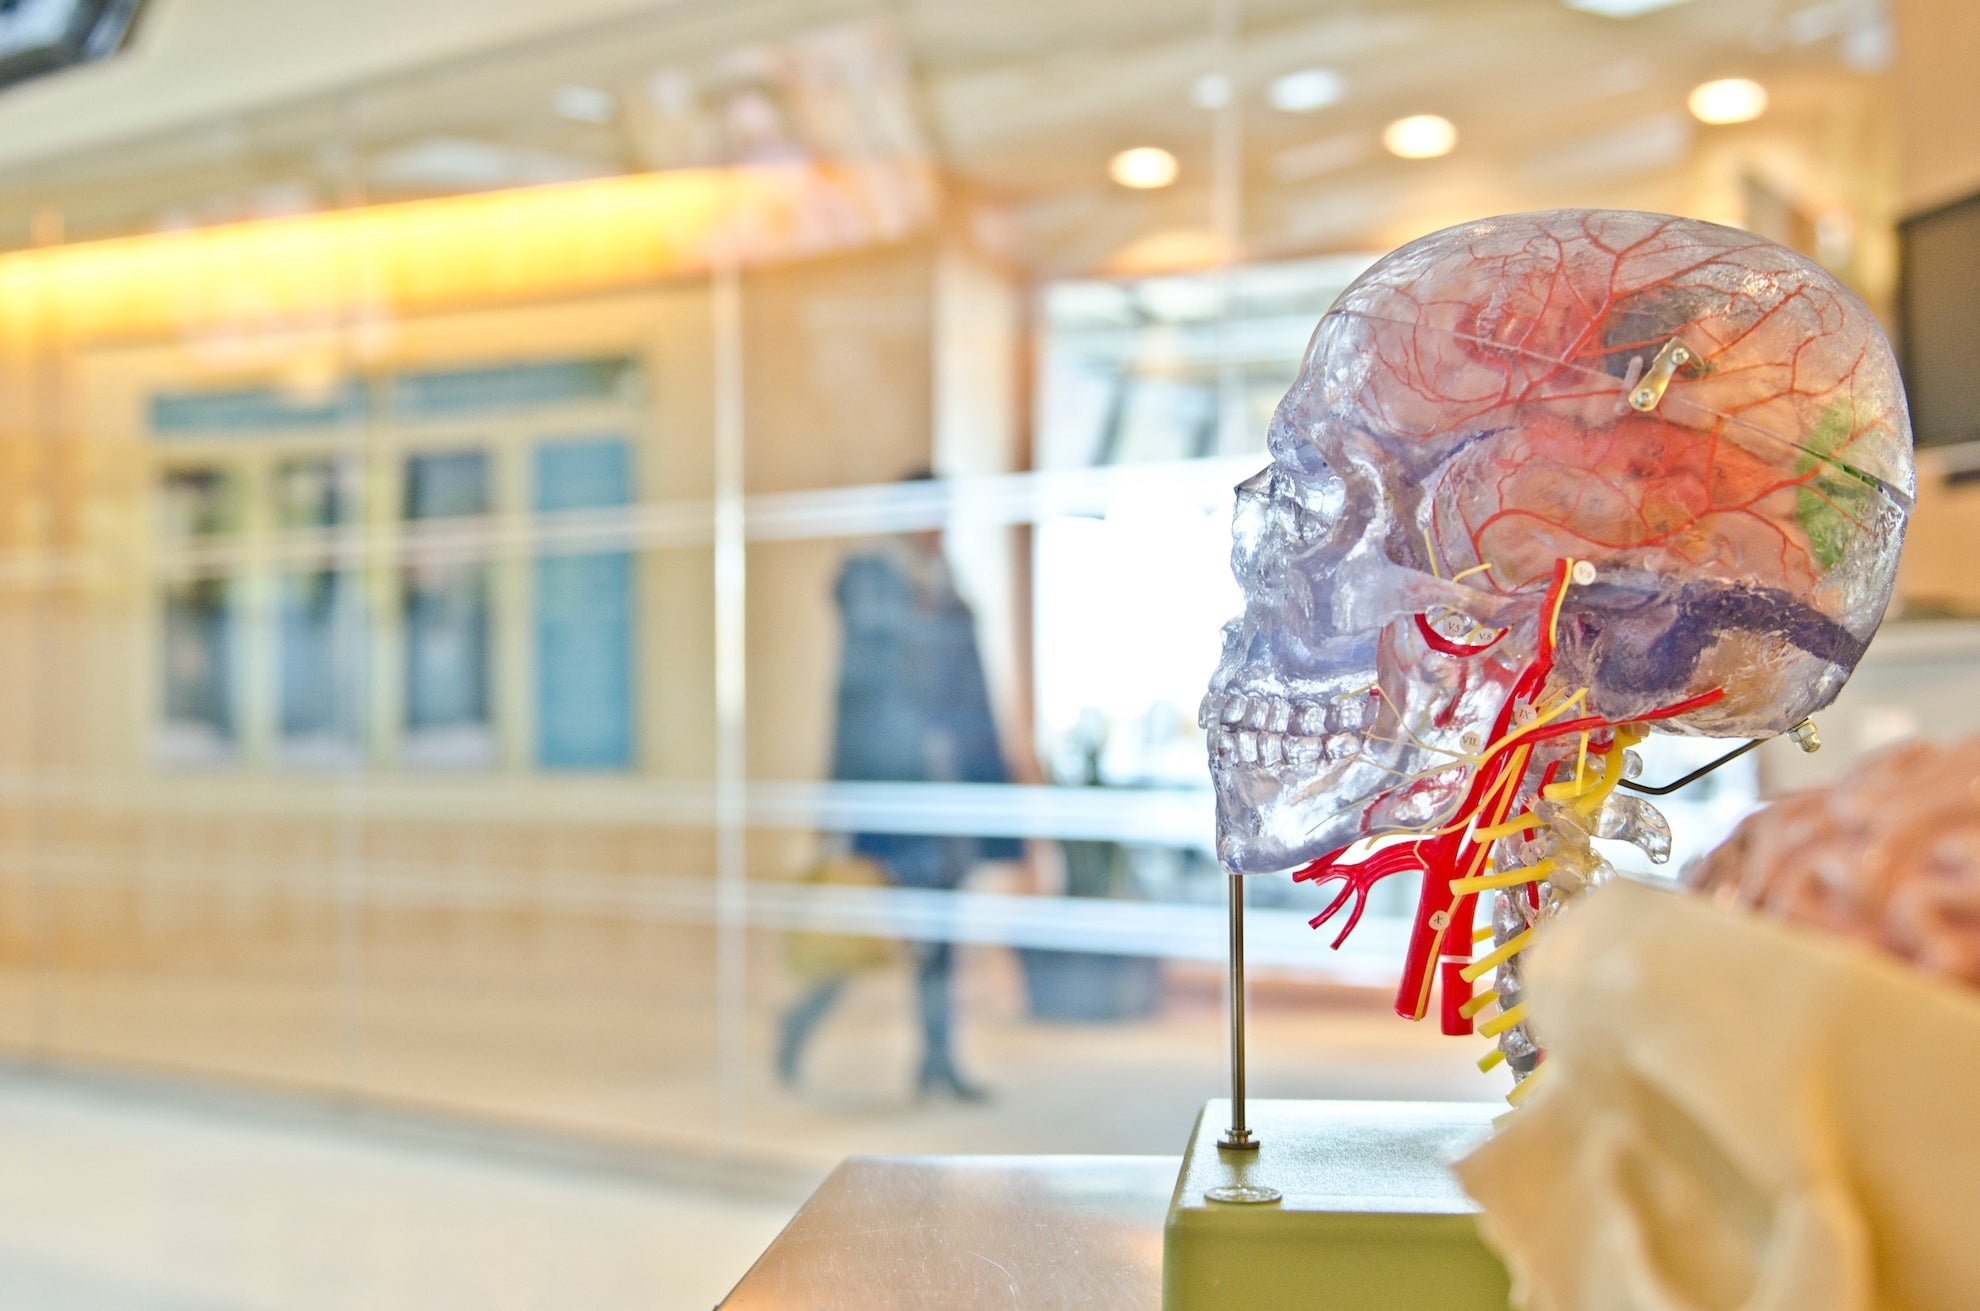
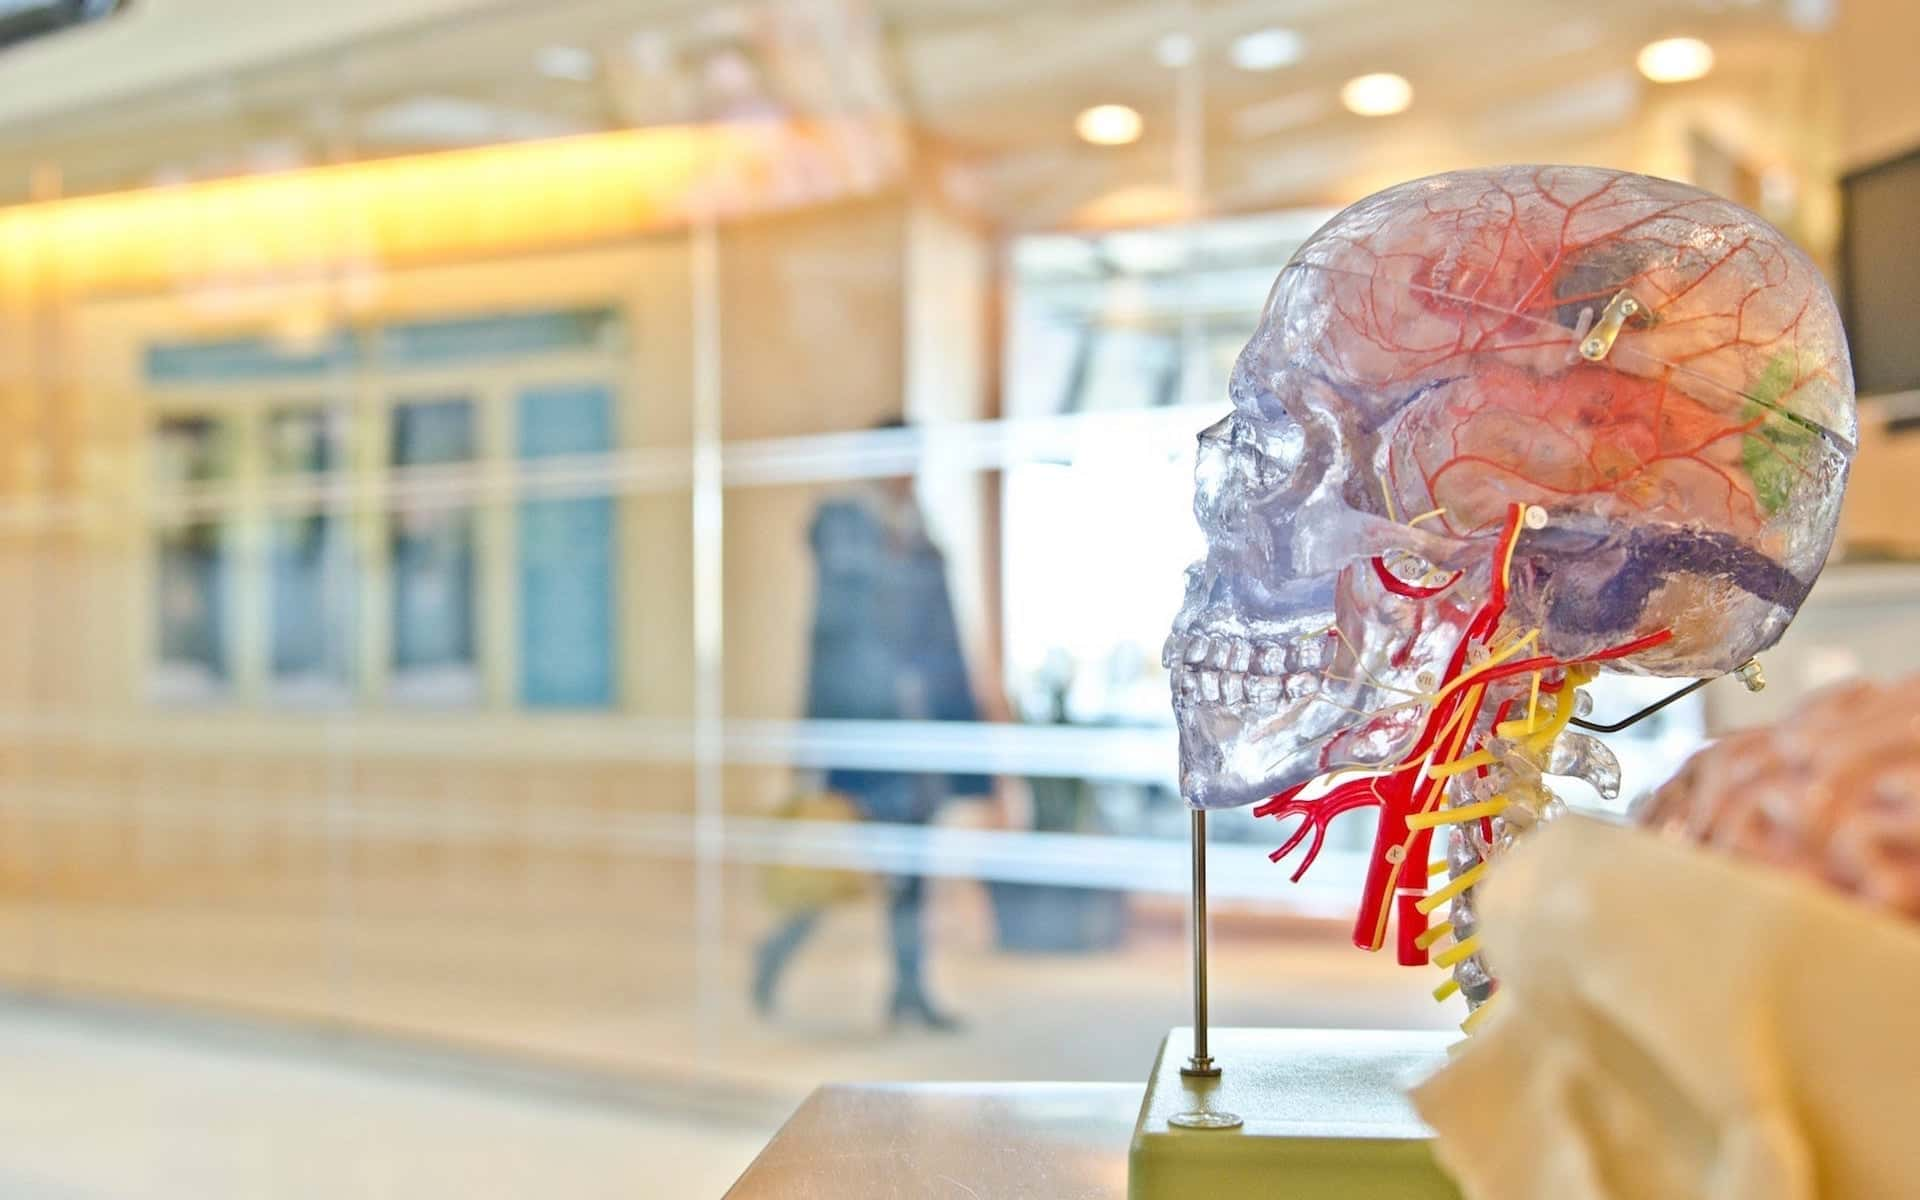
Compressed images still further to reduce the long poles

diff --git a/templates/index2.html b/templates/index2.html
@@ -60,7 +60,7 @@
         </div>
 
         <div class="mySlides fade">
-          <img src="static/images/dashprac.png" />
+          <img src="static/images/dashprac.jpg" />
           <div class="text">
             <h1>Understand and manage your referral network.</h1>
           </div>
